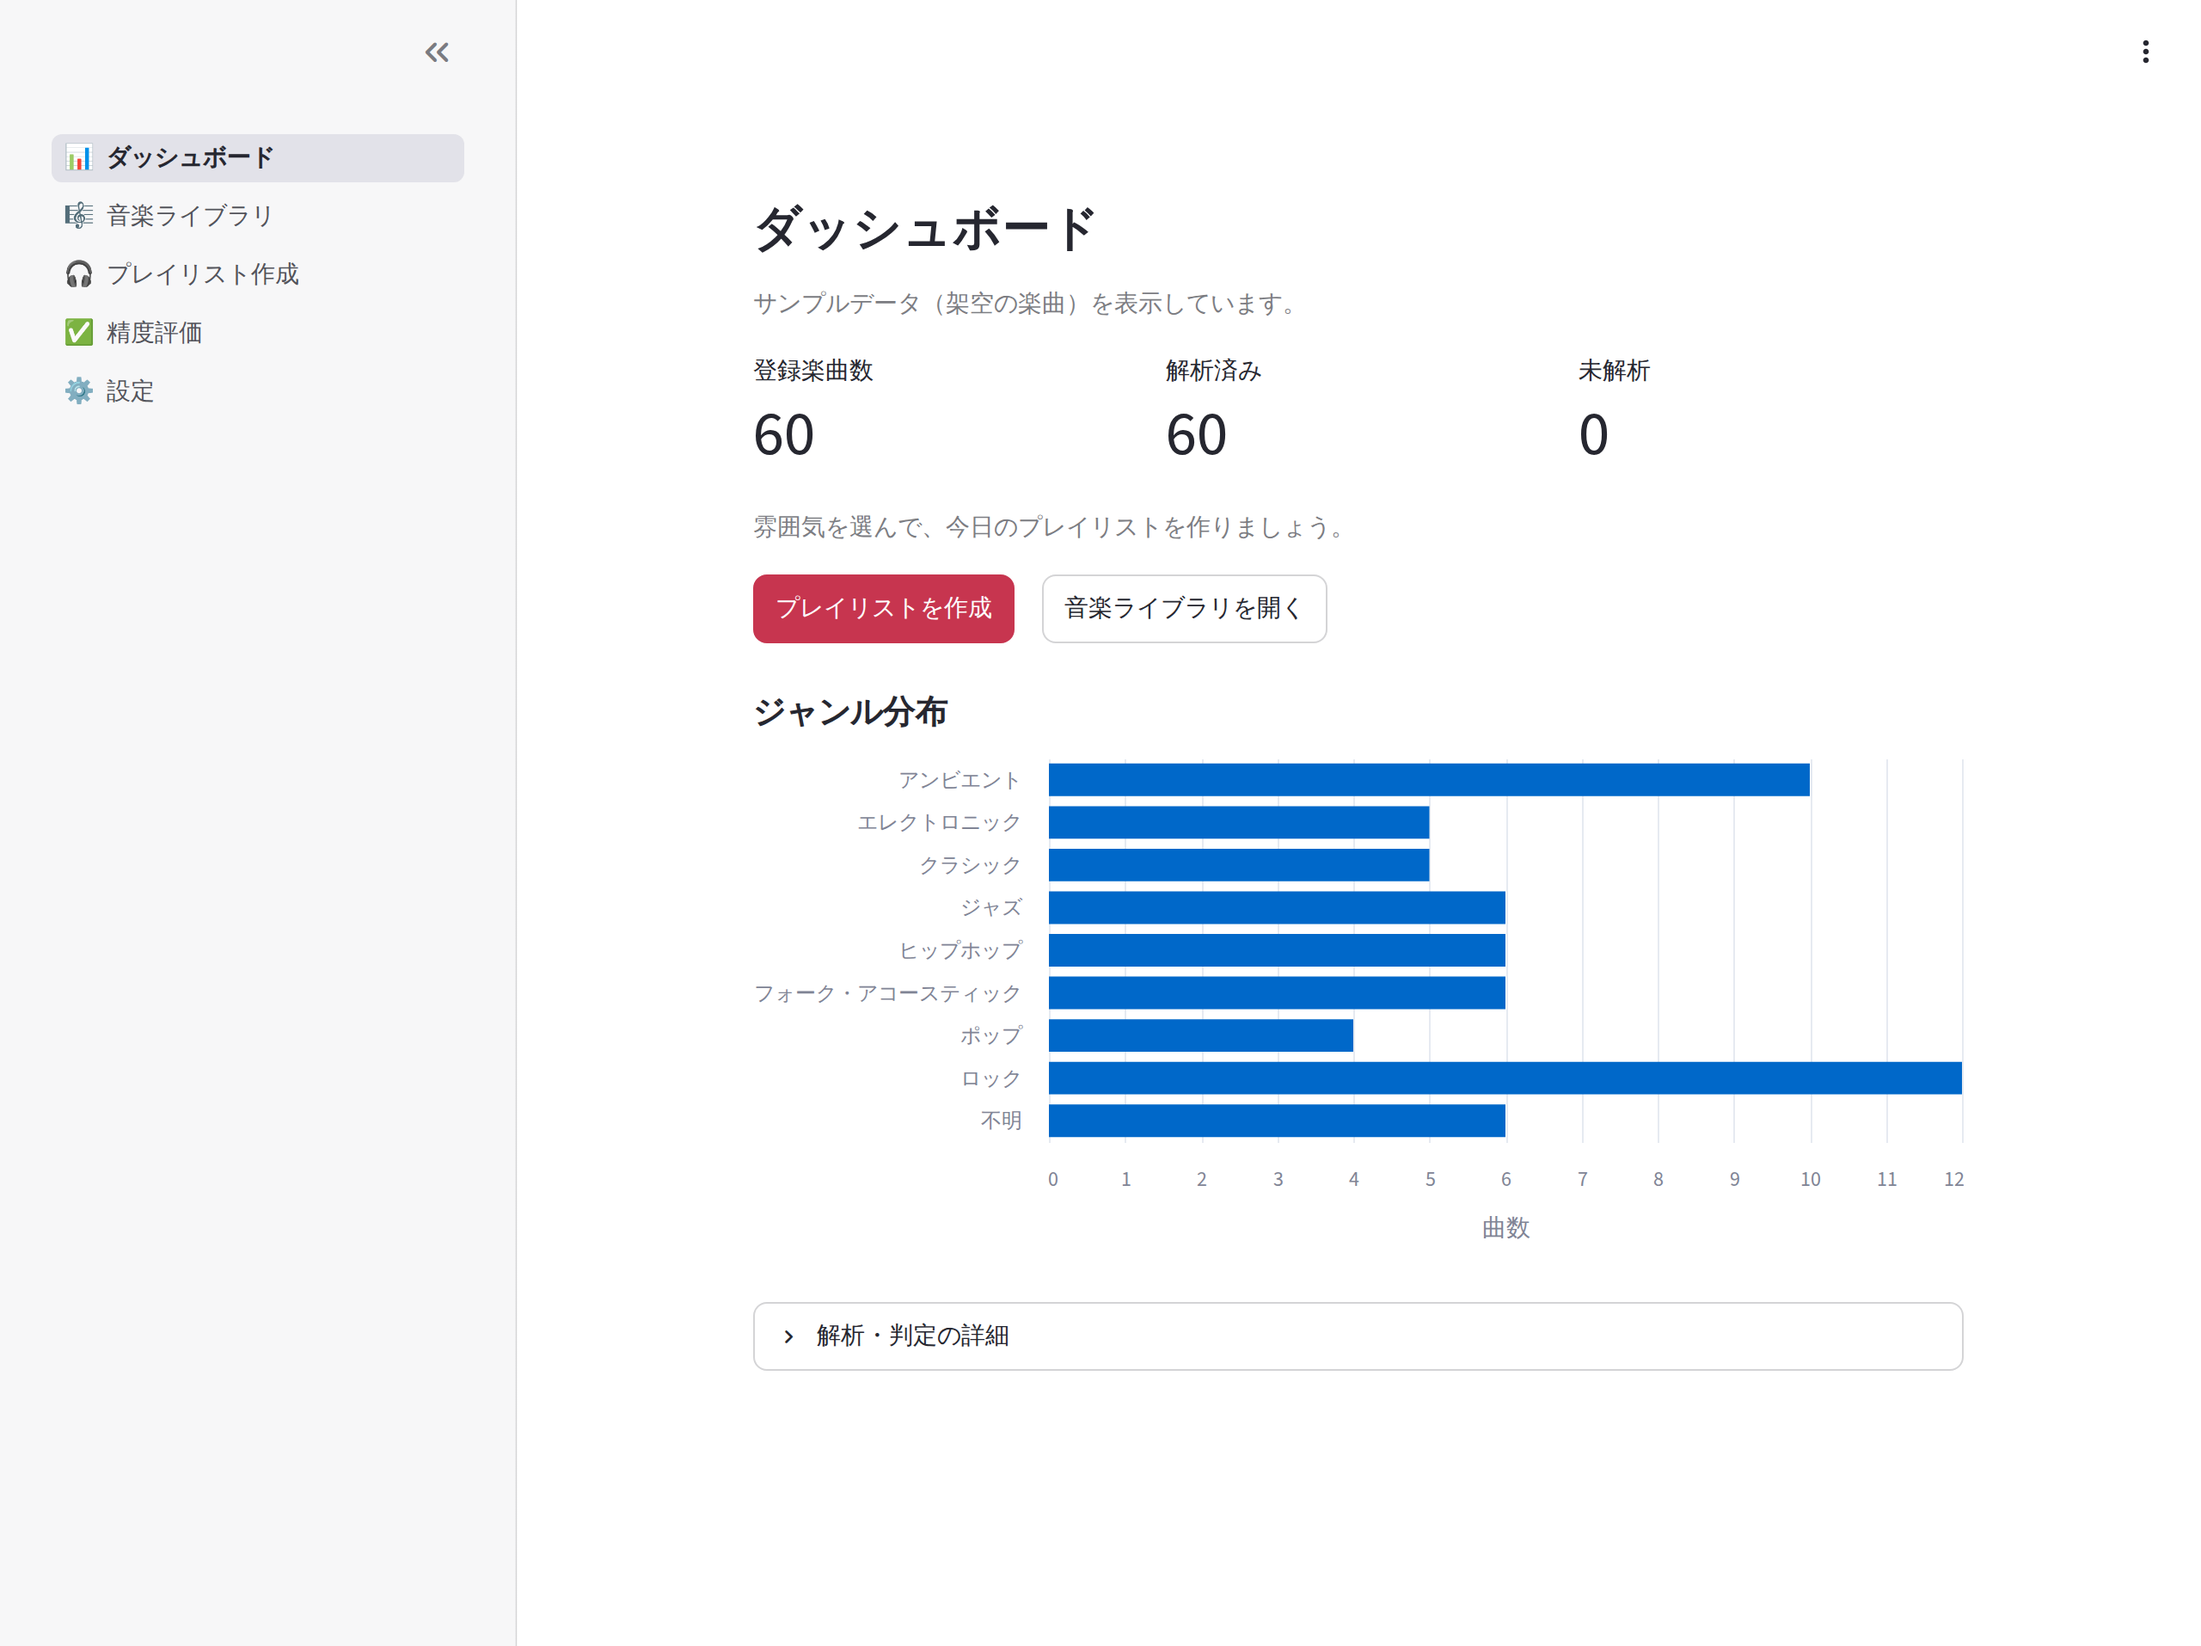
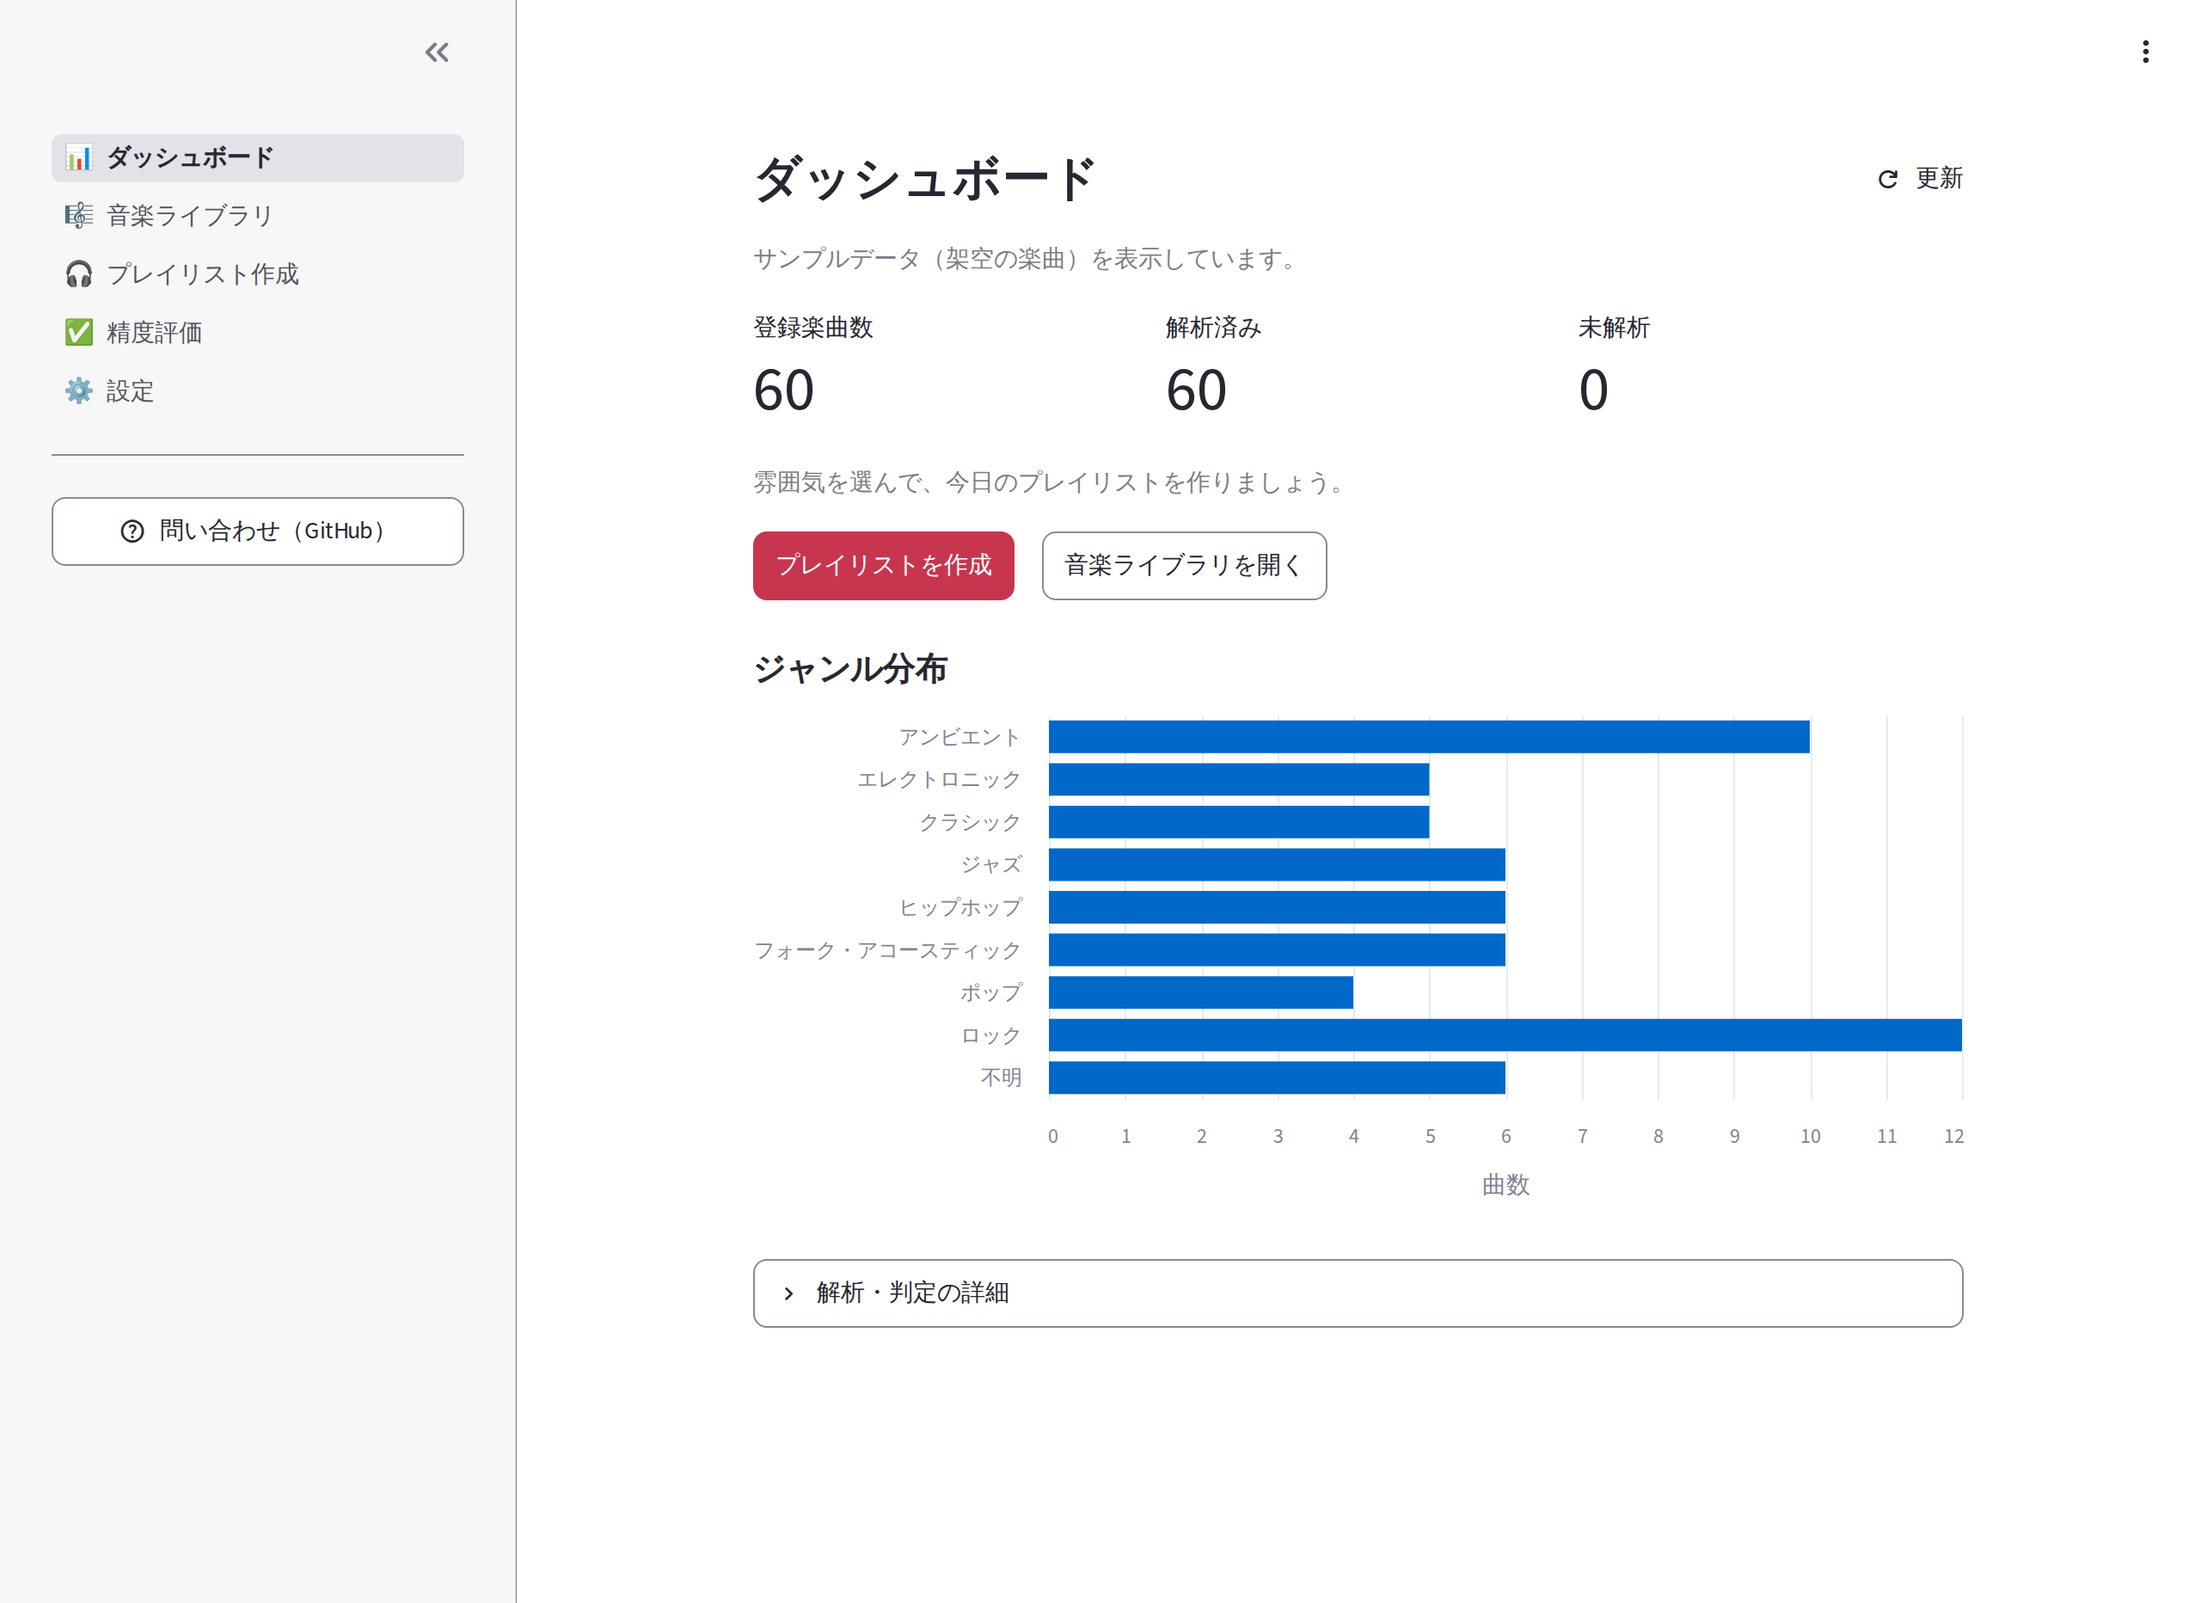
改善後の操作手順と各画面幅のキャプチャを更新

diff --git a/docs/architecture.md b/docs/architecture.md
@@ -103,6 +103,11 @@ flowchart LR
 - `pl_result` と `pl_draft` は既存の生成結果・編集結果を保持する。入力部品はページ移動時に Streamlit が破棄するため、`playlist_page.preserve_inputs()` で値を `pl_input_values` に退避し、再表示時に戻す。編集中の状態はブラウザセッション内のみで、DB 保存は従来の明示的な保存操作で行う
 - 認証より先にライブラリや入力状態を描画しない。入力状態の退避とナビゲーション構築も、従来の PIN 判定の後に行う
 - タブと折りたたみ内の要素も毎回描画するため、切り替えで入力を失わない。非表示にしただけで外部通信を実行しない。Jev・Volumio の実行条件と確認欄は変更しない
+- プレイリスト・評価・設定のタブには固定キーを付ける。タブの切り替え自体は再実行を発生させず、入力確定後もブラウザ内の選択を保つ。通知と本文は別の固定コンテナに配置し、通知の出現・消失で本文の部品が作り直されることを防ぐ
+- バックグラウンド処理の完了・失敗は進捗領域だけで通知し、タイマーから画面全体を再実行しない。最新の結果は「結果を画面に反映」、ページ上部の「更新」、または次の操作による再実行で表示する。完了通知は「結果を画面に反映」で確認するまで残す。進捗領域は高さを確保し、完了時の本文の移動を抑える
+- 設定・評価の文字入力フォームでは Enter で送信せず、保存ボタンで確定する。プレイリスト名は従来どおり入力確定時にセッションへ保持し、明示的な保存ボタンだけで DB に保存する
+- 選曲・保存・解析状況・評価の説明は情報アイコン付きのポップオーバーで読める。ホバーだけに依存せず、タップやキーボードで開ける。入力欄の境界と表の見出しはテーマ設定で明確にする
+- 雰囲気と円の中心は検索なしの選択欄にする。選択肢の増加で生成ボタンが遠くなることと、選択のためにソフトキーボードが開くことを防ぐ
 - 表は表示領域内のスクロールを使用する。狭い画面で全列を無理に縮めず、基本情報を先に表示し、長い曲名は選択欄の下でも確認できるようにする
 
 ## データモデル

diff --git a/docs/SCREENSHOTS.md b/docs/SCREENSHOTS.md
@@ -5,11 +5,23 @@
 
 ## UI/UX 改善の比較
 
+### タブレットの入力・更新操作
+
+- 名前や数値の入力確定後も同じタブ・折りたたみを維持するため、主要な部品に固定キーを設定しました。通知領域と本文も分離しています。
+- バックグラウンド処理の完了は進捗領域だけで通知し、「結果を画面に反映」を押すまで画面全体を自動更新しません。
+- 雰囲気と円の中心を、キーボードが開かない一覧式の選択欄にしました。
+- 選曲設定・保存・解析状況・評価に、タップして読める情報アイコン付きの説明を置きました。
+- 赤系のアクセントを保ち、入力欄の境界と表の見出しを見分けやすくしました。保存ボタンは横幅いっぱいにしています。
+
+撮影スクリプトでは Enter／Tab による名前の入力確定、保存後のタブ保持、表示領域が縮んで戻る場合の状態保持も確認します。iPad 実機の Safari や日本語 IME、ソフトキーボードそのものの挙動は別途実機での確認が必要です。
+
+### 画面構成
+
 既存画像と画面実装を照合し、次の順で改善しました。明るい背景・赤系アクセント、バックグラウンド処理の進捗、確認付きの外部通信、保存処理は維持しています。
 
 | 優先度 | 改善前の課題 | 対応 |
 |---|---|---|
-| P0 | 雰囲気カード5枚がスマートフォンで縦に並び、生成ボタンが遠い | 折り返す選択欄に変更。主要条件と生成ボタンを最初の画面内に配置 |
+| P0 | 雰囲気の選択肢がスマートフォンで縦に並び、生成ボタンが遠い | 一覧式の選択欄に変更。主要条件と生成ボタンを最初の画面内に配置 |
 | P0 | 条件・曲編集・保存・照合が1つの長いページ | 生成後は条件を折りたたみ、「曲を編集」「保存・連携」のタブを表示 |
 | P0 | 曲ごとの3つのボタンが狭い画面で縦に積み上がる | スクロール可能な一覧と、選択した曲の「上へ」「下へ」「除外」に集約 |
 | P0 | タイトルが「プレイリスト作／成」と分断される | テーマで見出しサイズを統一。390pxでも1行で表示 |

diff --git a/README.md b/README.md
@@ -111,6 +111,10 @@ sudo mount -t drvfs '\\volumio.local\Internal Storage' /mnt/volumio -o ro
 
 音楽ライブラリの「絞り込み・表示項目」では、検索に加えて解析状況・判定ジャンルを指定できます。音響特徴量や判定の詳細は楽曲の詳細欄で開けます。
 
+処理が完了しても、入力中の画面を自動で更新しません。完了通知の「結果を画面に反映」を押すと最新の結果を表示します。ページ上部の「更新」でも表示を更新できます。設定・評価の文字入力は Enter だけでは保存せず、各フォームの保存ボタンで確定します。
+
+雰囲気は一覧からタップして選べます（キーボードは開きません）。詳しい説明は「選曲設定のヒント」「保存について」などの情報アイコン付きボタンから開けます。
+
 評価の進め方は [docs/evaluation.md](docs/evaluation.md) を参照してください。
 
 ## Jev（TypeSafe）の利用について
